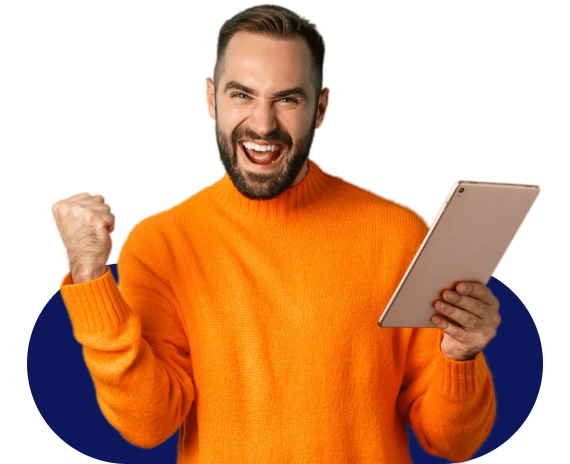
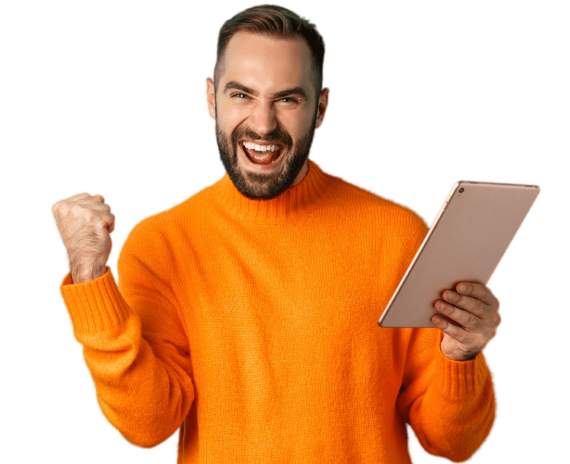
tech companies fixed to overflow the image

Changed region(s): [[0.0298, 0.6034, 0.3281, 1.0], [0.686, 0.6034, 0.9544, 1.0], [0.1789, 0.5431, 0.2088, 0.6034]]

diff --git a/src/components/TechCompanies.tsx b/src/components/TechCompanies.tsx
@@ -4,9 +4,11 @@ const techCompanies = [alphabet, amazon, azure, slack];
 
 const TechCompanies = () => {
   return (
-    <div className="my-36 flex flex-col items-center justify-evenly xl:flex-row-reverse">
-      <img src={orangePerson} alt="" />
-      <div className="mx-14 mt-11 grid grid-cols-2 justify-items-center gap-y-5 xl:mt-20 xl:flex xl:space-x-5">
+    <div className="flex flex-col items-center justify-evenly xl:flex-row-reverse xl:items-end">
+      <div className="flex h-32 w-fit max-w-[330px] items-end rounded-full bg-[#0C185B] md:max-w-[400px] lg:max-w-[570px] xl:h-52">
+        <img src={orangePerson} alt="" />
+      </div>
+      <div className="mx-14 my-11 grid grid-cols-2 justify-items-center gap-y-5 xl:mt-20 xl:flex xl:space-x-5">
         {techCompanies.map((company, index) => (
           <img src={company} alt="" key={index} className="h-[50px] w-28" />
         ))}

diff --git a/src/components/TopGradient.tsx b/src/components/TopGradient.tsx
@@ -5,7 +5,7 @@ interface Props {
 
 const TopGradient = ({ children }: Props) => {
   return (
-    <div className="mt- w-full rounded-[40px] bg-gradient-to-tl from-gradientPurple to-gradientBlue lg:rounded-[100px]">
+    <div className="my-52 w-full rounded-[40px] bg-gradient-to-tl from-gradientPurple to-gradientBlue lg:rounded-[100px] xl:my-14">
       {children}
     </div>
   );

diff --git a/src/App.tsx b/src/App.tsx
@@ -15,7 +15,7 @@ function App() {
         <TechCompanies />
         <Features />
         <Services />
-        <About/>
+        <About />
       </TopGradient>
     </div>
   );
